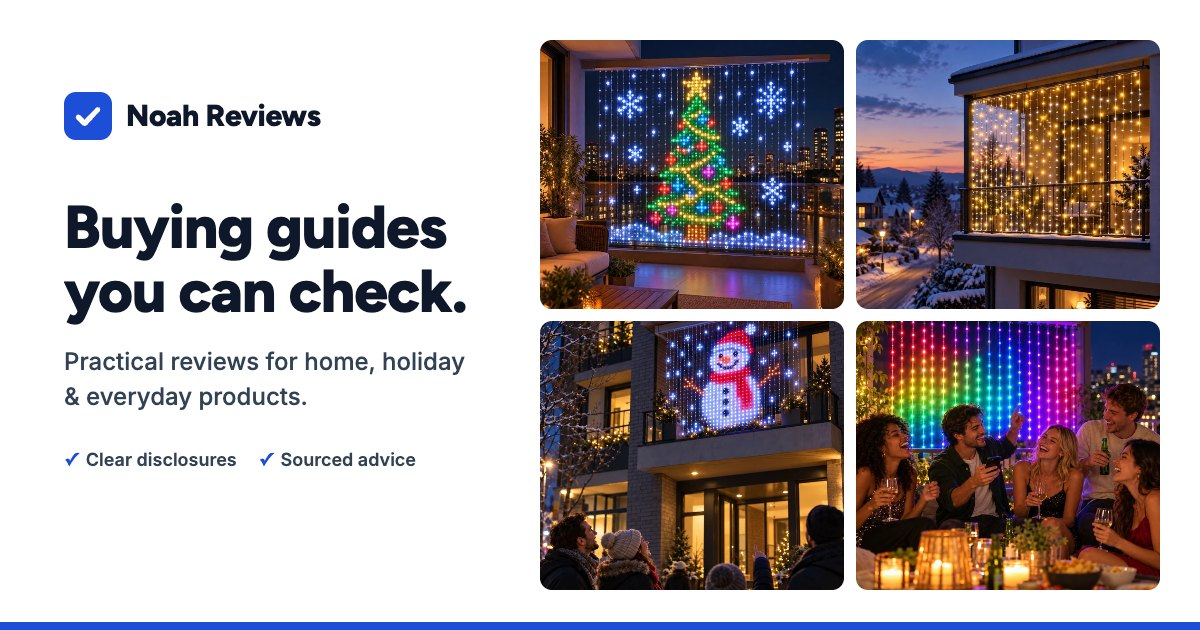
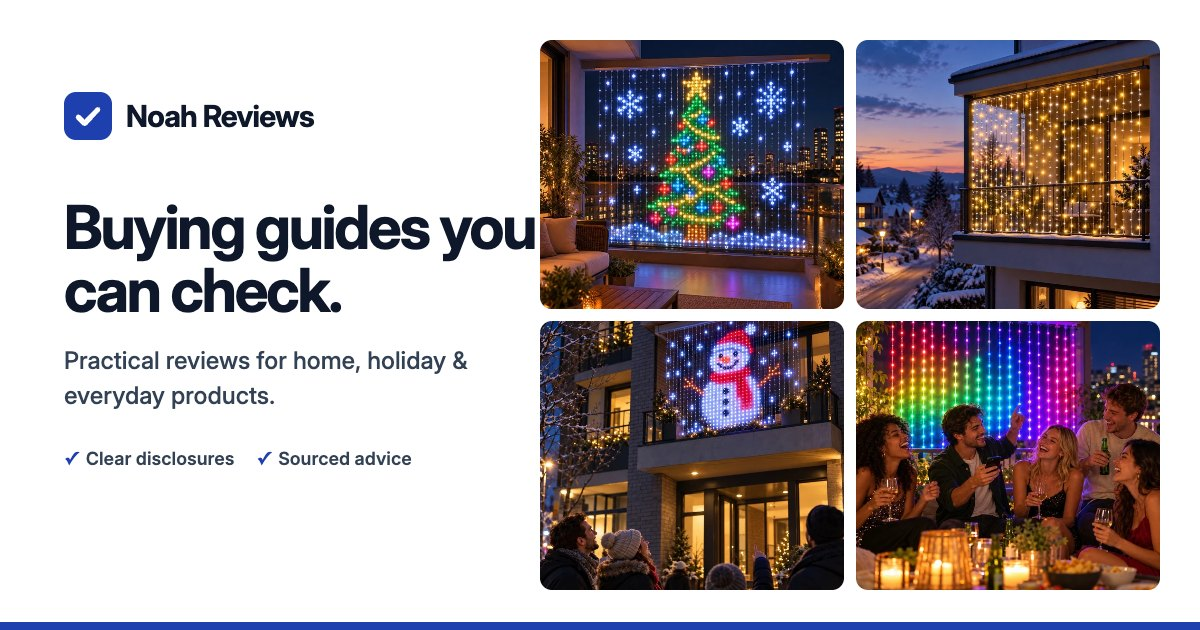
Newspaper-grade reading typography, one typeface for UI, Search Console tag
- Articles read like a US news site: Source Serif 4 body at 20px/1.6 (18px on phones),
  ~70-character column, serif dek, sans section heads with 2em/0.55em spacing,
  3:2 lead image, small sans captions, calmer link underlines.
- UI and headlines in Inter only (optical sizes); deeper primary blue #1e40af;
  700-weight headings with measured tracking; quieter labels and modules.
- google-site-verification meta tag on the root and language pages.
- 20px phone gutters; header CTA hidden below 480px so no row overflows.

diff --git a/app/globals.css b/app/globals.css
@@ -6,34 +6,35 @@
   --surface: #ffffff;
   --ink: #0f172a;
   --ink-2: #334155;
+  --font-head: var(--font-sans);
   --muted: #5b6779;
   --line: #e2e8f0;
-  --brand: #1d4ed8;
-  --brand-2: #1e40af;
-  --brand-tint: #eff6ff;
-  --cta: #1d4ed8;
-  --cta-hover: #1e40af;
-  --cta-tint: #eff6ff;
-  --link: #1d4ed8;
+  --brand: #1e40af;
+  --brand-2: #1e3a8a;
+  --brand-tint: #eef2fb;
+  --cta: #1e40af;
+  --cta-hover: #1e3a8a;
+  --cta-tint: #eef2fb;
+  --link: #1e40af;
   --radius: 12px;
   --shadow-sm: 0 1px 2px rgba(15, 23, 42, .06);
   --shadow: 0 1px 2px rgba(15, 23, 42, .05), 0 10px 28px rgba(15, 23, 42, .08);
 }
 * { box-sizing: border-box; }
 html { -webkit-text-size-adjust: 100%; scroll-padding-top: 84px; scroll-behavior: smooth; }
-body { margin: 0; background: var(--bg); color: var(--ink); font: 400 17px/1.7 var(--font-sans), system-ui, -apple-system, 'Segoe UI', sans-serif; -webkit-font-smoothing: antialiased; }
-h1, h2, h3, .brand span, .brand-foot, .cta-title, .pick-title { font-family: var(--font-head), system-ui, sans-serif; letter-spacing: -0.01em; color: var(--ink); }
+body { margin: 0; background: var(--bg); color: var(--ink); font: 400 17px/1.7 var(--font-sans), system-ui, -apple-system, 'Segoe UI', sans-serif; -webkit-font-smoothing: antialiased; text-rendering: optimizeLegibility; font-optical-sizing: auto; }
+h1, h2, h3, .brand span, .brand-foot, .cta-title, .pick-title { font-family: var(--font-head), system-ui, sans-serif; letter-spacing: -0.02em; color: var(--ink); font-weight: 700; }
 a { color: var(--link); text-underline-offset: 3px; }
 img { max-width: 100%; height: auto; display: block; }
 code { font-size: .9em; background: var(--bg-soft); padding: 1px 5px; border-radius: 4px; }
 .skip { position: absolute; left: -999px; }
 .skip:focus { left: 16px; top: 8px; background: var(--surface); padding: 8px 12px; z-index: 50; }
 .sr-only { position: absolute; width: 1px; height: 1px; padding: 0; margin: -1px; overflow: hidden; clip: rect(0, 0, 0, 0); white-space: nowrap; border: 0; }
-.wrap { max-width: 760px; margin: 0 auto; padding: 0 16px; }
-.wrap.wide { max-width: 1160px; }
+.wrap { max-width: 720px; margin: 0 auto; padding: 0 20px; }
+.wrap.wide { max-width: 1200px; }
 
 /* ---------- buttons ---------- */
-.btn { display: inline-flex; align-items: center; justify-content: center; gap: 8px; min-height: 46px; padding: 0 22px; border-radius: 10px; font: 700 15px/1 var(--font-sans), sans-serif; text-decoration: none; white-space: nowrap; transition: background .15s, transform .15s, box-shadow .15s; }
+.btn { display: inline-flex; align-items: center; justify-content: center; gap: 8px; min-height: 46px; padding: 0 20px; border-radius: 8px; font: 600 15px/1 var(--font-sans), sans-serif; text-decoration: none; white-space: nowrap; transition: background .15s, transform .15s, box-shadow .15s; }
 .btn-primary, .btn { background: var(--cta); color: #fff; box-shadow: 0 1px 2px rgba(15, 23, 42, .08); }
 .btn-primary:hover, .btn:hover { background: var(--cta-hover); }
 .btn-ghost { background: #fff; color: var(--ink); border: 1px solid #cbd5e1; box-shadow: none; }
@@ -45,9 +46,9 @@ code { font-size: .9em; background: var(--bg-soft); padding: 1px 5px; border-rad
 .site-header { position: sticky; top: 0; z-index: 30; background: #fff; border-bottom: 1px solid var(--line); }
 .site-header .wrap { display: flex; flex-wrap: wrap; align-items: center; justify-content: space-between; gap: 8px 20px; min-height: 64px; padding-top: 8px; padding-bottom: 8px; }
 .brand { display: inline-flex; align-items: center; gap: 10px; color: var(--brand); text-decoration: none; }
-.brand span { font-size: 20px; font-weight: 800; color: var(--ink); }
+.brand span { font-size: 19px; font-weight: 700; color: var(--ink); letter-spacing: -0.02em; }
 .site-header nav { display: flex; flex-wrap: wrap; align-items: center; gap: 6px 20px; }
-.site-header nav > a { color: var(--ink-2); text-decoration: none; font-size: 15px; font-weight: 500; }
+.site-header nav > a { color: var(--ink-2); text-decoration: none; font-size: 15px; font-weight: 500; letter-spacing: -0.005em; }
 .site-header nav > a:hover { color: var(--brand); }
 .site-header nav > a.btn { color: #fff; }
 .flag { display: inline-block; vertical-align: -2px; border-radius: 2px; box-shadow: 0 0 0 1px rgba(0, 0, 0, .12); flex: none; }
@@ -64,10 +65,11 @@ code { font-size: .9em; background: var(--bg-soft); padding: 1px 5px; border-rad
 
 /* ---------- home hero ---------- */
 .hero { display: grid; grid-template-columns: 1.05fr .95fr; gap: 56px; align-items: center; padding: 56px 0 40px; }
-.hero h1 { font-size: clamp(32px, 4vw, 46px); line-height: 1.1; margin: 14px 0 16px; font-weight: 800; max-width: 17ch; }
-.lede { font-size: 18px; color: var(--ink-2); max-width: 52ch; margin: 0; }
-.kicker { margin: 0; font: 700 14px/1.4 var(--font-sans), sans-serif; color: var(--brand); }
-.hero .kicker { display: inline-block; background: var(--brand-tint); border-radius: 999px; padding: 4px 12px; font-size: 13px; }
+.hero h1 { font-size: clamp(32px, 3.8vw, 46px); line-height: 1.08; margin: 12px 0 18px; font-weight: 700; letter-spacing: -0.03em; max-width: 17ch; }
+.lede { font-size: 18px; line-height: 1.65; color: #475569; max-width: 52ch; margin: 0; }
+.kicker { margin: 0; font: 600 14px/1.4 var(--font-sans), sans-serif; color: var(--brand); }
+.hero .kicker { display: inline-flex; align-items: center; gap: 8px; font-size: 14px; }
+.hero .kicker::before { content: ''; width: 18px; height: 2px; background: var(--brand); }
 .hero-ctas { display: flex; flex-wrap: wrap; gap: 10px; margin: 28px 0 18px; }
 .hero-note { font-size: 13px; color: var(--muted); margin: 6px 0 0; }
 .hero-note a { color: inherit; }
@@ -82,19 +84,19 @@ code { font-size: .9em; background: var(--bg-soft); padding: 1px 5px; border-rad
 }
 
 /* ---------- sections, cards ---------- */
-.section-h { font-size: clamp(24px, 2.6vw, 30px); margin: 0; }
+.section-h { font-size: clamp(22px, 2.4vw, 28px); margin: 0; letter-spacing: -0.025em; }
 .section-head { display: flex; flex-wrap: wrap; align-items: baseline; justify-content: space-between; gap: 6px 24px; margin: 40px 0 0; padding-top: 32px; border-top: 1px solid var(--line); }
 .section-sub { margin: 0; color: var(--muted); font-size: 14px; }
 .grid { display: grid; grid-template-columns: repeat(3, minmax(0, 1fr)); gap: 28px 24px; margin-top: 24px; }
 @media (max-width: 960px) { .grid { grid-template-columns: repeat(2, minmax(0, 1fr)); } }
 @media (max-width: 600px) { .grid { grid-template-columns: 1fr; } }
 .card { background: transparent; display: flex; flex-direction: column; }
-.card-img { border-radius: 12px; overflow: hidden; background: var(--bg-soft); }
+.card-img { border-radius: 10px; overflow: hidden; background: var(--bg-soft); }
 .card-img img { transition: transform .3s; }
 .card:hover .card-img img { transform: scale(1.03); }
 .card-img img { width: 100%; aspect-ratio: 16 / 10; object-fit: cover; }
 .card-body { padding: 14px 2px 0; display: grid; gap: 6px; }
-.card h3 { font-size: 18px; line-height: 1.3; margin: 0; font-weight: 700; }
+.card h3 { font-size: 17px; line-height: 1.35; margin: 0; font-weight: 600; letter-spacing: -0.015em; }
 .card h3 a { color: var(--ink); text-decoration: none; }
 .card h3 a:hover { color: var(--brand); }
 .card-desc { margin: 0; color: var(--muted); font-size: 15px; line-height: 1.55; display: -webkit-box; -webkit-line-clamp: 2; -webkit-box-orient: vertical; overflow: hidden; }
@@ -104,7 +106,7 @@ code { font-size: .9em; background: var(--bg-soft); padding: 1px 5px; border-rad
 .card--big .card-body { padding: 30px; align-content: center; }
 .card--big h3 { font-size: clamp(22px, 2.8vw, 30px); }
 @media (max-width: 760px) { .card--big { grid-template-columns: 1fr; } .card--big .card-img img { aspect-ratio: 16 / 10; min-height: 0; } .card--big .card-body { padding: 18px; } }
-.meta { font-size: 13px; color: var(--muted); margin: 0; }
+.meta { font-size: 13px; color: var(--muted); margin: 0; font-variant-numeric: tabular-nums; }
 .trust { display: none; }
 
 /* home: top pick */
@@ -122,8 +124,8 @@ code { font-size: .9em; background: var(--bg-soft); padding: 1px 5px; border-rad
 .why-grid { display: grid; grid-template-columns: repeat(4, minmax(0, 1fr)); gap: 28px; margin-top: 24px; }
 @media (max-width: 960px) { .why-grid { grid-template-columns: repeat(2, minmax(0, 1fr)); } }
 @media (max-width: 600px) { .why-grid { grid-template-columns: 1fr; gap: 20px; } }
-.why-grid > div::before { content: '✓'; display: grid; place-items: center; width: 32px; height: 32px; border-radius: 10px; background: var(--brand-tint); color: var(--brand); font-weight: 800; margin-bottom: 12px; }
-.why-grid h3 { font-size: 17px; margin: 0 0 6px; }
+.why-grid > div::before { content: '✓'; display: grid; place-items: center; width: 28px; height: 28px; border-radius: 8px; background: var(--brand-tint); color: var(--brand); font-weight: 700; font-size: 14px; margin-bottom: 12px; }
+.why-grid h3 { font-size: 16px; margin: 0 0 6px; font-weight: 600; letter-spacing: -0.01em; }
 .why-grid p { margin: 0; font-size: 15px; line-height: 1.55; color: var(--muted); }
 .why-more { margin: 16px 0 0; font-weight: 600; }
 
@@ -131,23 +133,24 @@ code { font-size: .9em; background: var(--bg-soft); padding: 1px 5px; border-rad
 .crumbs { font-size: 14px; color: var(--muted); margin: 28px 0 0; }
 .crumbs a { color: var(--muted); }
 .post { padding-bottom: 24px; }
-.post h1 { font-size: clamp(30px, 5vw, 44px); line-height: 1.12; margin: 12px 0 12px; font-weight: 800; }
-.standfirst { font-size: 19px; color: var(--ink-2); margin: 0 0 18px; }
+.post h1 { font-size: clamp(30px, 4.2vw, 42px); line-height: 1.14; margin: 14px 0 14px; font-weight: 700; letter-spacing: -0.021em; }
+.standfirst { font-family: var(--font-serif), Georgia, serif; font-size: clamp(19px, 2.2vw, 22px); line-height: 1.45; color: #4b5563; margin: 0 0 22px; }
 .byline { display: flex; align-items: center; gap: 12px; padding: 14px 0; border-top: 1px solid var(--line); border-bottom: 1px solid var(--line); }
-.byline p { margin: 0; font-size: 15px; }
+.byline p { margin: 0; font-size: 14px; line-height: 1.5; color: var(--ink-2); }
 .byline .checked { margin-top: 2px; font-size: 13px; font-weight: 600; }
 .byline .checked a { color: var(--brand-2); text-decoration: none; }
 .avatar { flex: none; width: 42px; height: 42px; border-radius: 50%; display: grid; place-items: center; background: var(--brand); color: #fff; font: 700 14px var(--font-sans), sans-serif; }
 .avatar--lg { width: 56px; height: 56px; font-size: 18px; }
-.disclosure { font-size: 14px; line-height: 1.55; color: var(--ink-2); background: var(--bg-soft); border: 1px solid var(--line); border-radius: 12px; padding: 11px 14px; margin: 16px 0; }
+.disclosure { font-size: 14px; line-height: 1.55; margin-top: 18px; color: var(--ink-2); background: var(--bg-soft); border: 1px solid var(--line); border-radius: 12px; padding: 11px 14px; margin: 16px 0; }
 .lead { margin: 20px 0 8px; }
-.lead img { border-radius: 18px; width: 100%; }
-.lead figcaption { font-size: 13px; color: var(--muted); margin-top: 8px; }
+.lead img { border-radius: 8px; width: 100%; aspect-ratio: 3 / 2; object-fit: cover; }
+.lead figcaption { font-size: 13px; line-height: 1.45; color: var(--muted); margin-top: 8px; }
 .box { background: #fff; border: 1px solid var(--line); border-radius: var(--radius); padding: 16px 20px; margin: 22px 0; }
-.box h2, .box-h { font-family: var(--font-head), sans-serif !important; font-size: 16px !important; font-weight: 700; letter-spacing: -0.01em; color: var(--ink); margin: 0 0 8px !important; }
-.takeaways { background: var(--brand-tint); border-color: #dbeafe; }
+.box h2, .box-h { font-family: var(--font-sans), sans-serif !important; font-size: 13px !important; font-weight: 600; letter-spacing: .06em; text-transform: uppercase; color: var(--muted); margin: 0 0 10px !important; }
+.takeaways { background: #f8fafc; border: 0; border-left: 3px solid var(--brand); border-radius: 0 10px 10px 0; }
 .takeaways ul { margin: 0; padding-left: 20px; }
-.takeaways li { margin: 5px 0; }
+.takeaways { font-size: 16px; line-height: 1.55; }
+.takeaways li { margin: 6px 0; }
 .toc ol { margin: 0; padding-left: 20px; columns: 2 220px; column-gap: 28px; }
 .toc li { margin: 3px 0; font-size: 15px; break-inside: avoid; }
 .toc a { text-decoration: none; }
@@ -157,7 +160,7 @@ code { font-size: .9em; background: var(--bg-soft); padding: 1px 5px; border-rad
 .pick-inline { display: grid; grid-template-columns: 120px 1fr auto; gap: 16px; align-items: center; margin: 22px 0; padding: 14px; border: 1px solid var(--line); background: var(--bg-soft); border-radius: 14px; }
 .pick-inline img { width: 120px; height: 120px; object-fit: cover; border-radius: 12px; }
 .pick-inline p { margin: 2px 0; }
-.pick-inline .pick-title { font-size: 18px; line-height: 1.3; font-weight: 700; }
+.pick-inline .pick-title { font-size: 17px; line-height: 1.3; font-weight: 600; letter-spacing: -0.015em; }
 .pick-inline .pick-specs { font-size: 13.5px; color: var(--ink-2); }
 .pick-inline .pick-side { display: grid; justify-items: end; gap: 6px; }
 @media (max-width: 640px) {
@@ -167,14 +170,19 @@ code { font-size: .9em; background: var(--bg-soft); padding: 1px 5px; border-rad
   .pick-inline .pick-side .btn { width: 100%; }
 }
 
-.prose h2 { font-size: 26px; line-height: 1.25; margin: 42px 0 12px; font-weight: 700; }
-.prose h3 { font-size: 21px; margin: 28px 0 8px; }
-.prose ul, .prose ol { padding-left: 22px; }
-.prose li { margin: 6px 0; }
-.prose table { width: 100%; border-collapse: collapse; font-size: 15px; display: block; overflow-x: auto; margin: 18px 0; }
-.prose th { background: var(--bg-soft); }
+.prose { font-family: var(--font-serif), Georgia, 'Times New Roman', serif; font-size: 20px; line-height: 1.6; color: #1f2328; font-optical-sizing: auto; }
+.prose p { margin: 0 0 1.1em; }
+.prose a { text-decoration-thickness: 1px; text-underline-offset: .18em; text-decoration-color: rgba(30, 64, 175, .45); }
+.prose a:hover { text-decoration-color: currentColor; }
+.prose strong { font-weight: 650; }
+.prose h2 { font-family: var(--font-sans), sans-serif; font-size: 25px; line-height: 1.25; margin: 2em 0 .55em; font-weight: 700; letter-spacing: -0.02em; }
+.prose h3 { font-family: var(--font-sans), sans-serif; font-size: 20px; line-height: 1.3; margin: 1.6em 0 .4em; font-weight: 650; letter-spacing: -0.015em; }
+.prose ul, .prose ol { padding-left: 1.3em; margin: 0 0 1.1em; }
+.prose li { margin: .35em 0; padding-left: .15em; }
+.prose table { width: 100%; border-collapse: collapse; font: 400 15px/1.5 var(--font-sans), sans-serif; display: block; overflow-x: auto; margin: 1.4em 0; }
+.prose th { background: var(--bg-soft); font-weight: 600; font-size: 14px; }
 .prose th, .prose td { border: 1px solid var(--line); padding: 9px 12px; text-align: left; vertical-align: top; min-width: 120px; }
-.prose blockquote { margin: 20px 0; padding: 12px 16px; border-left: 3px solid var(--brand-2); background: var(--bg-soft); border-radius: 0 10px 10px 0; }
+.prose blockquote { margin: 1.4em 0; padding: 2px 0 2px 20px; border-left: 3px solid var(--brand); font-style: italic; color: var(--ink-2); }
 @media (max-width: 640px) {
   .prose table { font-size: 13.5px; }
   .prose th, .prose td { min-width: 0; padding: 7px 8px; overflow-wrap: normal; hyphens: auto; -webkit-hyphens: auto; }
@@ -182,16 +190,16 @@ code { font-size: .9em; background: var(--bg-soft); padding: 1px 5px; border-rad
 .see-also ul { margin: 0; padding-left: 20px; }
 .see-also li { margin: 6px 0; }
 .faq { margin-top: 40px; }
-.faq h2, .sources h2 { font-size: 26px; margin: 0 0 12px; font-weight: 700; }
+.faq h2, .sources h2 { font-size: 24px; margin: 0 0 12px; font-weight: 700; letter-spacing: -0.025em; }
 .faq details { border-bottom: 1px solid var(--line); padding: 13px 0; }
-.faq summary { cursor: pointer; font-weight: 600; }
+.faq summary { cursor: pointer; font-weight: 600; letter-spacing: -0.01em; }
 .faq details p { margin: 8px 0 0; color: var(--ink-2); }
 
 /* bottom CTA */
 .cta { margin: 40px 0; padding: 24px; border-radius: 14px; background: var(--brand); color: #fff; display: flex; flex-wrap: wrap; align-items: center; justify-content: space-between; gap: 18px; }
 .cta p { margin: 4px 0; color: rgba(255, 255, 255, .88); font-size: 15px; }
 .cta .kicker { color: #bfdbfe; }
-.cta .cta-title { font-size: 22px; line-height: 1.3; color: #fff; font-weight: 700; margin: 6px 0; }
+.cta .cta-title { font-size: 21px; line-height: 1.3; color: #fff; font-weight: 700; letter-spacing: -0.02em; margin: 6px 0; }
 .cta-actions { display: flex; flex-direction: column; align-items: flex-start; gap: 8px; }
 .cta .cta-more { color: rgba(255, 255, 255, .9); font-size: 14px; }
 .cta .btn { background: #fff; color: var(--brand); }
@@ -220,7 +228,7 @@ code { font-size: .9em; background: var(--bg-soft); padding: 1px 5px; border-rad
 .footer-grid { display: grid; grid-template-columns: 2fr 1fr 1fr; gap: 24px; }
 .footer-grid a { display: block; color: var(--ink-2); text-decoration: none; margin: 5px 0; }
 .footer-grid a:hover { color: var(--brand); }
-.brand-foot { font-size: 19px; color: var(--ink); margin: 0 0 6px; font-weight: 800; }
+.brand-foot { font-size: 18px; color: var(--ink); margin: 0 0 6px; font-weight: 700; letter-spacing: -0.02em; }
 .foot-h { font-weight: 700; color: var(--ink); margin: 0 0 6px; }
 .fine { border-top: 1px solid var(--line); margin-top: 24px; padding-top: 16px; }
 .fine p { margin: 4px 0; }
@@ -232,7 +240,7 @@ code { font-size: .9em; background: var(--bg-soft); padding: 1px 5px; border-rad
 .chooser { padding: 64px 16px; text-align: center; }
 .chooser h1 { font-size: clamp(28px, 5vw, 40px); margin: 8px 0; }
 .chooser .lede { margin: 0 auto; }
-.brand-big { font-family: var(--font-head), system-ui, sans-serif; font-size: 24px; font-weight: 800; color: var(--brand); margin: 0; display: inline-flex; align-items: center; gap: 10px; }
+.brand-big { font-family: var(--font-head), system-ui, sans-serif; font-size: 24px; font-weight: 700; letter-spacing: -0.02em; color: var(--brand); margin: 0; display: inline-flex; align-items: center; gap: 10px; }
 .lang-grid { list-style: none; padding: 0; margin: 32px auto 0; max-width: 640px; display: grid; grid-template-columns: repeat(auto-fill, minmax(180px, 1fr)); gap: 12px; }
 .lang-grid a { display: flex; align-items: center; gap: 12px; text-align: left; padding: 14px 16px; background: #fff; border: 1px solid var(--line); border-radius: 14px; text-decoration: none; color: var(--ink); font-weight: 600; box-shadow: var(--shadow-sm); }
 .lang-grid a:hover { border-color: var(--brand-2); }
@@ -246,7 +254,7 @@ code { font-size: .9em; background: var(--bg-soft); padding: 1px 5px; border-rad
   .lang-menu summary { padding: 5px 8px; }
 }
 /* very narrow phones: the header CTA would overflow in long languages; hero, inline card and sticky bar carry the CTA */
-@media (max-width: 440px) { .site-header nav > a.btn { display: none; } }
+@media (max-width: 480px) { .site-header nav > a.btn { display: none; } }
 @media (max-width: 640px) { .pick-inline .pick-side .partner-tag { justify-self: start; } }
 /* Phones: keep the two strongest trust points instead of a clipped third one */
 @media (max-width: 480px) {
@@ -255,17 +263,23 @@ code { font-size: .9em; background: var(--bg-soft); padding: 1px 5px; border-rad
 .hero-trust { list-style: none; display: flex; flex-wrap: wrap; gap: 4px 16px; padding: 0; margin: 4px 0 8px; font-size: 14px; color: var(--ink-2); }
 .hero-trust li::before { content: '✓'; color: var(--brand); font-weight: 800; margin-right: 6px; }
 /* home hero: partner pick + how we check */
-.hero-card { background: #fff; border: 1px solid var(--line); border-radius: 16px; padding: 22px; box-shadow: var(--shadow); }
+.hero-card { background: #fff; border: 1px solid var(--line); border-radius: 14px; padding: 22px; box-shadow: 0 1px 2px rgba(15, 23, 42, .04), 0 12px 32px -12px rgba(15, 23, 42, .14); }
 .hc-pick { display: flex; align-items: center; gap: 14px; }
 .hc-pick img { width: 80px; height: 80px; border-radius: 10px; object-fit: cover; flex: none; }
-.hc-label { margin: 0; font-size: 13px; font-weight: 700; color: var(--brand); }
-.hc-title { margin: 2px 0 0; font: 800 19px/1.25 var(--font-head), sans-serif; color: var(--ink); }
+.hc-label { margin: 0; font-size: 13px; font-weight: 600; color: var(--brand); }
+.hc-title { margin: 2px 0 0; font: 700 18px/1.3 var(--font-head), sans-serif; letter-spacing: -0.015em; color: var(--ink); }
 .hc-specs { margin: 14px 0 16px; font-size: 14px; line-height: 1.55; color: var(--ink-2); }
 .hc-btn { width: 100%; }
 .hero-card .hero-note { text-align: center; margin-top: 8px; }
 .hc-trust { list-style: none; margin: 18px 0 0; padding: 16px 0 0; border-top: 1px solid var(--line); display: grid; gap: 10px; font-size: 14px; line-height: 1.5; color: var(--ink-2); }
 .hc-trust li { position: relative; padding-left: 26px; }
 .hc-trust li::before { content: '✓'; position: absolute; left: 0; top: 0; width: 18px; height: 18px; border-radius: 6px; background: var(--brand-tint); color: var(--brand); font-size: 12px; font-weight: 800; display: grid; place-items: center; }
-.hc-trust strong { color: var(--ink); }
+.hc-trust strong { color: var(--ink); font-weight: 600; }
 .why { margin: 64px 0 64px; }
 @media (max-width: 860px) { .hero { padding-bottom: 8px; } .section-head { margin-top: 28px; padding-top: 24px; } }
+@media (max-width: 640px) {
+  .prose { font-size: 18px; line-height: 1.6; }
+  .prose h2 { font-size: 22px; }
+  .prose h3 { font-size: 18px; }
+  .post h1 { font-size: 30px; line-height: 1.15; }
+}

diff --git a/app/(site)/[lang]/layout.tsx b/app/(site)/[lang]/layout.tsx
@@ -1,7 +1,7 @@
 import type { Metadata, Viewport } from 'next';
 import Link from 'next/link';
 import { notFound } from 'next/navigation';
-import { Figtree, Inter } from 'next/font/google';
+import { Inter, Source_Serif_4 } from 'next/font/google';
 import Flag from '@/components/Flag';
 import JsonLd from '@/components/JsonLd';
 import { ACTIVE, isLang, langInfo, storeUrl, t } from '@/lib/i18n';
@@ -9,8 +9,10 @@ import { CATEGORY_KEYS, SITE } from '@/lib/site';
 import '../../globals.css';
 
 // Only the latin subset is preloaded; latin-ext (Polish ą ś ł …) still loads on demand via unicode-range.
-const head = Figtree({ subsets: ['latin'], variable: '--font-head', display: 'swap' });
-const sans = Inter({ subsets: ['latin'], variable: '--font-sans', display: 'swap' });
+// One typeface for the whole site; the optical-size axis gives large headings Inter's tighter display cut.
+const sans = Inter({ subsets: ['latin'], axes: ['opsz'], variable: '--font-sans', display: 'swap' });
+// Reading serif for article text, as US newspapers do; not preloaded because only guide and policy pages use it.
+const serif = Source_Serif_4({ subsets: ['latin'], style: ['normal', 'italic'], axes: ['opsz'], variable: '--font-serif', display: 'swap', preload: false });
 
 type Props = { children: React.ReactNode; params: Promise<{ lang: string }> };
 
@@ -33,6 +35,7 @@ export async function generateMetadata({ params }: Props): Promise<Metadata> {
       images: [{ url: SITE.ogImage, width: 1200, height: 630, alt: `${SITE.name}: ${m.tagline}` }],
     },
     twitter: { card: 'summary_large_image' },
+    verification: { google: SITE.googleVerification },
     robots: { index: true, follow: true, 'max-image-preview': 'large', 'max-snippet': -1, 'max-video-preview': -1 },
   };
 }
@@ -47,7 +50,7 @@ export default async function LangLayout({ children, params }: Props) {
   if (!isLang(lang)) notFound();
   const m = t(lang);
   return (
-    <html lang={langInfo(lang).hreflang} className={`${head.variable} ${sans.variable}`}>
+    <html lang={langInfo(lang).hreflang} className={`${sans.variable} ${serif.variable}`}>
       <body>
         <JsonLd
           data={{

diff --git a/app/(root)/page.tsx b/app/(root)/page.tsx
@@ -12,6 +12,8 @@ export const metadata: Metadata = {
     languages: { ...Object.fromEntries(ACTIVE.flatMap((l) => hreflangPairs(l, `/${l}/`))), 'x-default': '/' },
   },
   openGraph: { type: 'website', siteName: SITE.name, url: SITE.url, images: [{ url: SITE.ogImage, width: 1200, height: 630 }] },
+  // Google Search Console ownership (keep it: removing the tag un-verifies the property)
+  verification: { google: SITE.googleVerification },
 };
 
 /** Language chooser at the site root (x-default). Visitors are sent to their browser language when we have it. */

diff --git a/lib/site.ts b/lib/site.ts
@@ -2,7 +2,8 @@ export const SITE = {
   name: 'Noah Reviews',
   url: 'https://noahreviews.github.io',
   repo: 'https://github.com/noahreviews/noahreviews.github.io',
-  ogImage: 'https://noahreviews.github.io/images/noah-reviews-banner.jpg?v=3',
+  googleVerification: 'LxEhRd9Q1iGUGQY7zxgp1jE2uxL6UbZc0zDBzGuM8_E',
+  ogImage: 'https://noahreviews.github.io/images/noah-reviews-banner.jpg?v=4',
 };
 
 export const CATEGORY_KEYS = ['holiday-lighting'] as const;

diff --git a/README.md b/README.md
@@ -1,5 +1,5 @@
 <p align="center">
-  <a href="https://noahreviews.github.io"><img src="https://noahreviews.github.io/images/noah-reviews-banner.jpg?v=3" alt="Noah Reviews: practical buying guides for Christmas curtain lights, animated Christmas lights and smart holiday lighting" width="100%"></a>
+  <a href="https://noahreviews.github.io"><img src="https://noahreviews.github.io/images/noah-reviews-banner.jpg?v=4" alt="Noah Reviews: practical buying guides for Christmas curtain lights, animated Christmas lights and smart holiday lighting" width="100%"></a>
 </p>
 
 <h1 align="center">Noah Reviews</h1>
